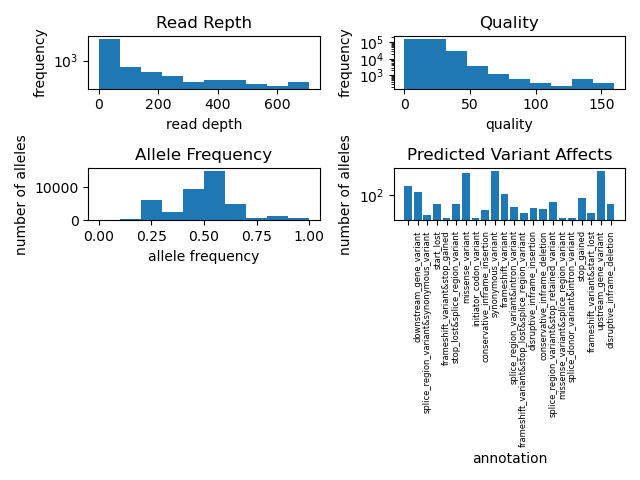
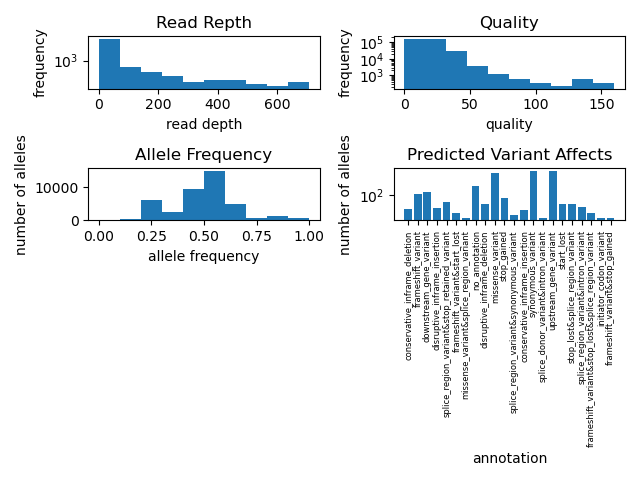
update

Changed region(s): [[0.625, 0.3438, 0.9688, 0.9375]]

diff --git a/week3-homework/analysisplot.py b/week3-homework/analysisplot.py
@@ -42,7 +42,11 @@ for line in parsed: #look in every line in vcf
     Ann = info["ANN"] #pull out value for key ANN. remember info is dictionary
     ann_list = Ann.split("|") #ann is a string need to split along |
     first_annotation = ann_list[1] #pull out first annotation
+    if first_annotation == "":
+        annotation.append("no_annotation")
+        continue
     annotation.append(first_annotation) #add first annotation to list
+#print(annotation)
 
 barplotitem = []
 barheights = []
@@ -66,7 +70,6 @@ for line in parsed: #look in every line in vcf
         if gq == ".": #skip if dp is a .
             continue
         quality.append(float(gq))
-#print(quality)
 
 
 # #this puts all the plots into one figure with subpanels
